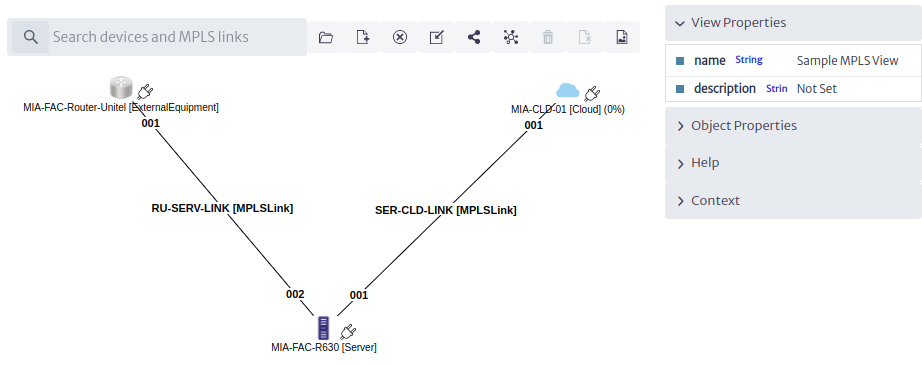
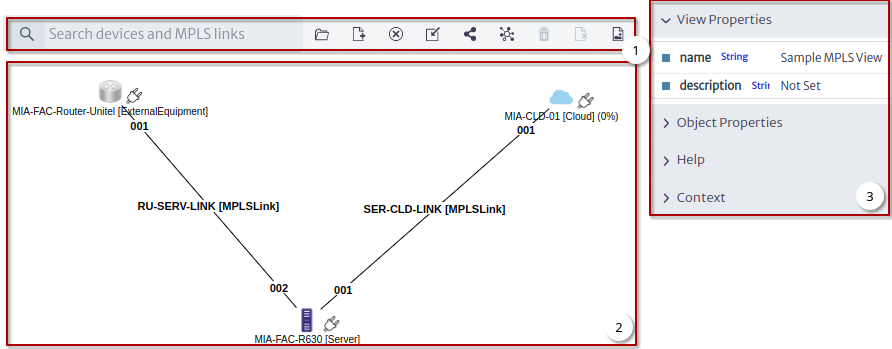
Add Creating a View section in MPLS Networks chapter

diff --git a/user/en/src/logical/mpls/README.MD b/user/en/src/logical/mpls/README.MD
@@ -1,3 +1,102 @@
 # MPLS Networks
 
-Create MPLS topologies and create virtual circuits between network interfaces.
+Create MPLS (Multiprotocol Label Switching) topologies and create virtual circuits between network interfaces.
+
+| ![MPLS Module][figure-mpls-module] |
+|:--:|
+| ***Figure 1.** MPLS Module* |
+
+[figure-mpls-module]: images/figure-mpls-module.png
+
+[Figure 2][figure-2] shows an example MPLS view.
+
+| ![Example MPLS View][figure-2] |
+|:--:|
+| ***Figure 2.** Example MPLS View* |
+
+[figure-2]: images/figure-sample-mpls-view.png
+
+1. [Tools][mpls-view-tools].
+2. Canvas.
+3. View Options Panel and [Object Options Panel][object-options-panel].
+
+[mpls-view-tools]: #tools
+[object-options-panel]: ../../navman/index.html#object-options-panel
+
+## Tools
+
+| ![Tools][figure-3] |
+|:--:|
+| ***Figure 3.** Tools* |
+
+[figure-3]: images/figure-tools.png
+
+[Figure 3][figure-3] shows the tools to manage the MPLS views.
+
+| Tool | Description |
+| -- | -- |
+| ![tool-1][tool-1] | Open view |
+| ![tool-2][tool-2] | New view |
+| ![tool-3][tool-3] | Remove view |
+| ![tool-4][tool-4] | Add existing devices and MPLS links to the view |
+| ![tool-5][tool-5] | New MPLS link |
+| ![tool-6][tool-6] | Detect MPLS link between nodes |
+| ![tool-7][tool-7] | Remove from database and view |
+| ![tool-8][tool-8] | Remove from view |
+| ![tool-9][tool-9] | Export as image |
+
+[tool-1]: ./images/tool-1.png
+[tool-2]: ./images/tool-2.png
+[tool-3]: ./images/tool-3.png
+[tool-4]: ./images/tool-4.png
+[tool-5]: ./images/tool-5.png
+[tool-6]: ./images/tool-6.png
+[tool-7]: ./images/tool-7.png
+[tool-8]: ./images/tool-8.png
+[tool-9]: ./images/tool-9.png
+
+## Creating a View
+
+To create a new view click on the `New MPLS view` tool [Figure 4][figure-4].
+
+| ![New MPLS view window][figure-4] |
+|:--:|
+| ***Figure 4.** New MPLS view window* |
+
+[figure-4]: images/figure-new-mpls-view-window.png
+
+Once the view is created, two routers will be added [Figure 5][figure-5], these are the ones that were used in the [physical circuit][creating-a-physical-circuit] that was built in the connectivity manager chapter.
+
+[creating-a-physical-circuit]: ../../physical/connectivityman/index.html#creating-a-physical-circuit
+
+| ![Add existing devices][figure-5] |
+|:--:|
+| ***Figure 5.** Add existing devices* |
+
+[figure-5]: images/figure-add-existing-devices-window.png
+
+[Figure 6][figure-6] shows the view with the two MPLS routers.
+
+| ![View with two nodes][figure-6] |
+|:--:|
+| ***Figure 6.** View with two MPLSRouters* |
+
+[figure-6]: images/figure-new-mpls-view-with-nodes.png
+
+In the chapter about [New Logical Circuit][new-logical-circuit], an MPLS Link [Figure 7][figure-7] was created that we will add to this view.
+
+[new-logical-circuit]: ../../logical/new-logical-circuit/index.html
+
+| ![Existing MPLS Link][figure-7] |
+|:--:|
+| ***Figure 7.** Existing MPLS Link* |
+
+[figure-7]: images/figure-mpls-link-relationships.png
+
+Using the MPLS link detection tool between nodes [Figure 8][figure-8].
+
+| ![View with two connections][figure-8] |
+|:--:|
+| ***Figure 8.** View with MPLSLink* |
+
+[figure-8]: images/figure-new-mpls-view-with-connections.png
